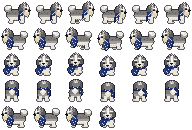
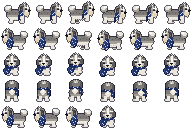
Sprocket: visible floppy ear in the side profile [skip ci]
Claude-Session: https://claude.ai/code/session_01DcRsQ77FYXtVXyNejf31QG

diff --git a/tools/sprocket.py b/tools/sprocket.py
@@ -52,9 +52,8 @@ def side(f, near_missing=True, idle=False, blink=False, wag=0):
         R(19 + fdx, 13 + bob, 3, G - 15 - bob - flift, K['w']); R(18 + fdx, G - 2 - flift, 4, 2, K['w']); X(18 + fdx, G - 1 - flift, K['wS'])
     # head: round fluffy Shih Tzu head, white forehead blaze, long floppy ears, short snout, beard
     hy = bob
-    ell(X, 22, 7 + hy, 5.2, 4.8, lambda x, y: K['gD'] if x < 19 else K['g'] if y < 6 + hy else K['gL'])
+    ell(X, 22, 7 + hy, 5.2, 4.8, lambda x, y: K['g'] if y < 6 + hy else K['gL'])
     R(21, 3 + hy, 3, 2, K['gX'])                                       # light streak on the forehead
-    ell(X, 19.8, 8.5 + hy, 1.7, 2.8, K['gD']); X(19, 11 + hy, K['g'])   # ear hanging down
     ell(X, 25, 9.5 + hy, 2.2, 2, K['w'])                               # short white muzzle (flat face)
     X(26, 8 + hy, K['nose']); X(27, 8 + hy, K['nose']); X(26, 9 + hy, K['nose'])
     ell(X, 24.5, 12 + hy, 2.4, 1.8, K['beard']); X(23, 13 + hy, K['beard']); X(25, 14 + hy, K['beard'])   # beard
@@ -66,6 +65,13 @@ def side(f, near_missing=True, idle=False, blink=False, wag=0):
     X(25, 3 + hy, K['wL']); X(25, 4 + hy, K['wL']); X(26, 5 + hy, K['w']); X(26, 6 + hy, K['w'])
     if blink: X(23, 7 + hy, K['gD']); X(24, 7 + hy, K['gD'])
     else: X(23, 6 + hy, K['gD']); X(24, 6 + hy, K['gD']); X(23, 7 + hy, K['eye']); X(24, 7 + hy, K['eye'])   # droopy, half-closed
+    # floppy ear on the side of the head: dark, long-haired, light front edge, wispy tip
+    EAR, EARD = C('#4a474a'), C('#363337')
+    for y, a, z in ((4, 19, 21), (5, 18, 21), (6, 18, 21), (7, 18, 21), (8, 18, 21), (9, 18, 21), (10, 18, 20), (11, 18, 20)):
+        for x in range(a, z + 1): X(x, y + hy, EARD if x == a else EAR)
+    for y in range(5, 11): X(21 if y < 10 else 20, y + hy, K['gL'])          # light front edge of the ear
+    X(19, 7 + hy, K['g']); X(20, 9 + hy, K['g'])                                # fur strands
+    X(18, 12 + hy, EAR); X(20, 12 + hy, EAR); X(19, 13 + hy, EARD)              # wispy tip
     # scarf: navy band around the neck + drape over the shoulder, white print
     for y in range(9, 14):
         for x in range(17, 21): X(x, y + hy, K['sc'] if (x + y) % 5 else K['scP'])

diff --git a/assets/characters/sprocket/README.md b/assets/characters/sprocket/README.md
@@ -15,3 +15,4 @@ The user's dog: a three-legged Shih Tzu, white and gray, with **one front leg mi
 - **Senior dog (about 11 years old):** graying, frosted face; white bushy eyebrows; droopy half-closed sleepy eyes; a gentler, slower 3-legged gait (smaller hop and bob; previews at 150 ms per frame).
 - **Forehead detail:** a white blaze running down the middle to the muzzle, fur-parting strands, and wispy tufts on top of the head (also on the back of the head).
 - **3-leg emphasis:** a labored 6-frame tripod gait. He plants, pushes off the back legs, hops on the one front leg, lands heavily (head and chest dip 2 px, dust puff under the paw), recovers, then pauses briefly. Movement lurches forward mostly on the hop (steps 1,1,5,3,1,0 px).
+- **Side-profile ear:** a clear floppy ear on the side of the head (dark long hair, light front edge, wispy tip), drawn over the head so it reads.
